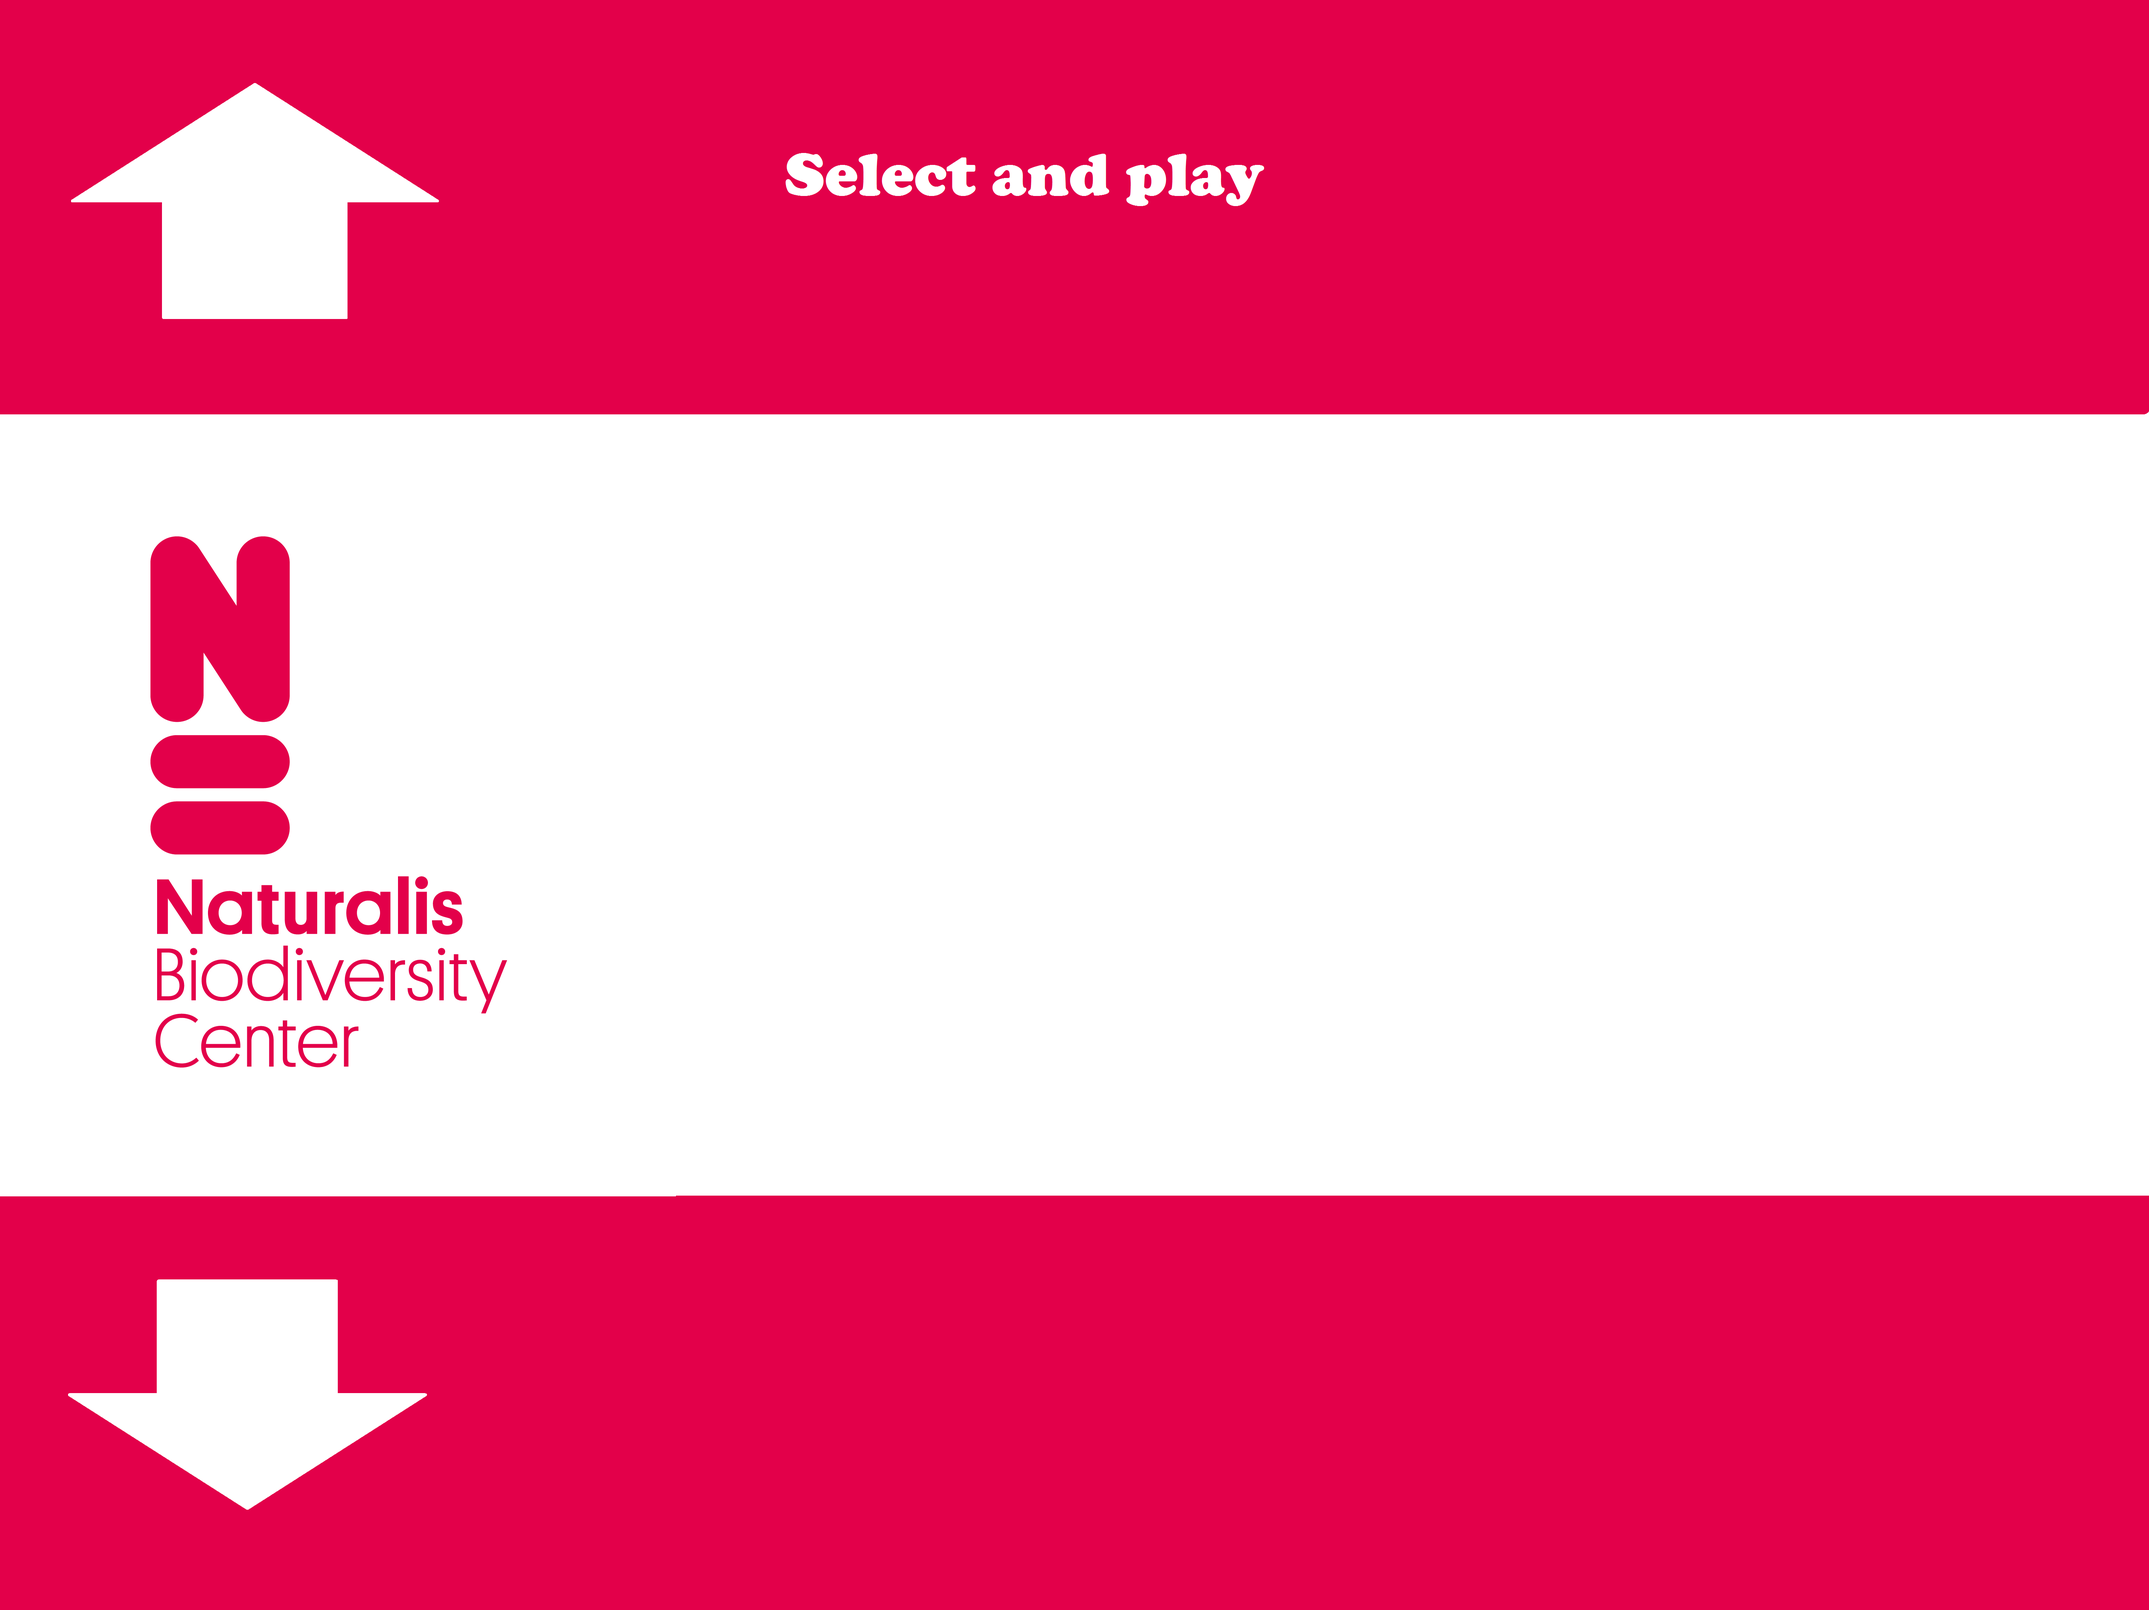
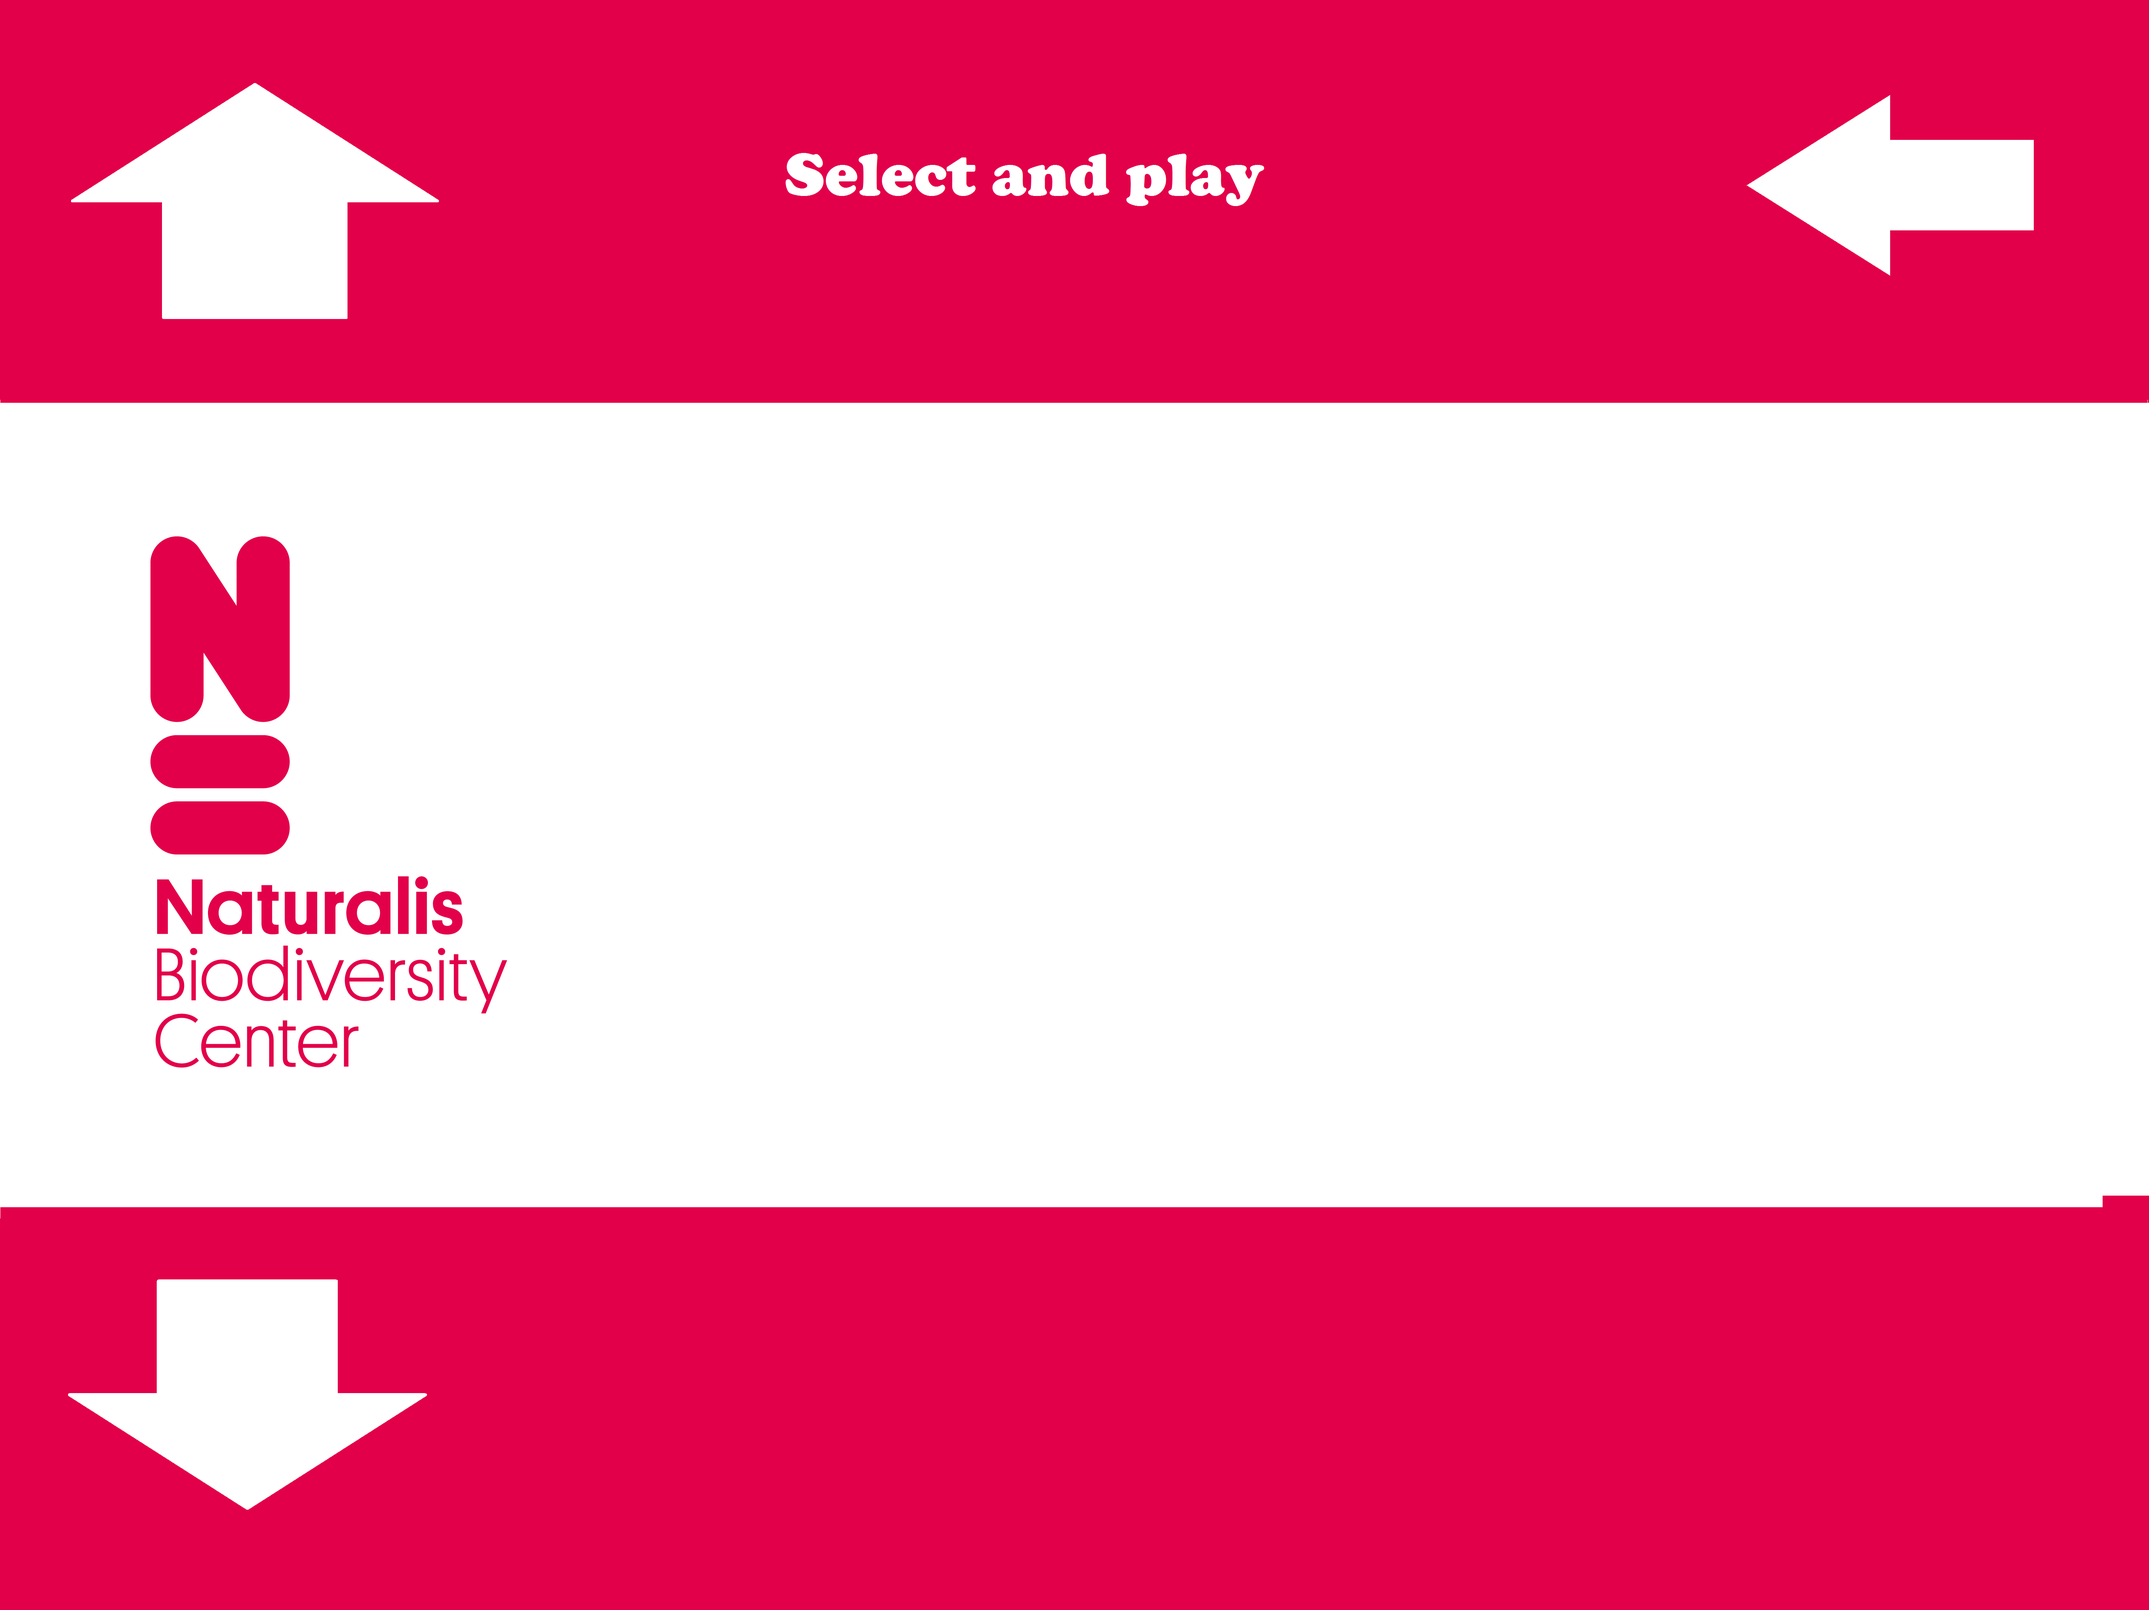
Achtergronden e.d.

Changed region(s): [[0.0, 0.249, 1.0, 0.2801], [0.0, 0.7159, 0.9659, 0.747], [0.8101, 0.0623, 0.9659, 0.1556]]

diff --git a/select_and_play.cpp b/select_and_play.cpp
@@ -40,7 +40,8 @@ QString Select_And_Play::ItoS(int number)
 QImage *Select_And_Play::getFullImage(int number){
     if(number >= 0 && number < ALL_IMAGES){
         QString str = QDir::currentPath();
-        str += "/../../../../Naturalis/";
+        // str += "/../../../../Naturalis/";
+        str += "/../Naturalis/";
         str += ItoS(number);
         str += ".png";
         QImage *image = new QImage(str);
@@ -62,6 +63,10 @@ void Select_And_Play::toScreen(Screen s){
             Difficulty_Screen *d = new Difficulty_Screen(clickedImage);
             d->init();
             widget->close();
+        } break;
+        case SC_PUZZLE: {
+            Puzzle *p = new Puzzle();
+            p->initNM(rand() % ALL_IMAGES, NULL);
         } break;
     }
 }
@@ -118,7 +123,7 @@ void Select_And_Play::onTableClicked(const QModelIndex &i)
                 SendInput(1, &ip, sizeof(INPUT));
             }
             else if(box.clickedButton() == p2){
-                toScreen(SC_DIFF);
+                toScreen(SC_PUZZLE);
             }
         }
     }
@@ -132,64 +137,39 @@ QStandardItemModel *Select_And_Play::createModel(){
     QCoreApplication::processEvents();
 
     QStandardItemModel *model = new QStandardItemModel(4,3);
-    QColor color(0,0,255,50);
-
-    QStandardItem *item1 = new QStandardItem();
-    QFont font1;
-    font1.setPixelSize(100);
-    item1->setFont(font1);
-    item1->setTextAlignment(Qt::AlignCenter);
-    item1->setData(QVariant(color), Qt::BackgroundRole);
-    item1->setText("/\\");
-    model->setItem(0, 0, item1);
-
-    QStandardItem *item2 = item1->clone();
-    item2->setText("\\/");
-    model->setItem(3, 0, item2);
-
-    QStandardItem *item3 = item1->clone();
-    item3->setText("<-");
-    model->setItem(0, 2, item3);
-
-    QStandardItem *item4 = item1->clone();
-    QFont font2;
-    font2.setPixelSize(50);
-    font2.setItalic(true);
-    item4->setFont(font2);
-    item4->setText("Puzzling Collections Select and Play");
-    model->setItem(0, 1, item4);
-
-    for(int i = imgBlock*4; i < (imgBlock*4)+4; i++){
-        QStandardItem *item5 = new QStandardItem();
-        QImage *image = getFullImage(i);
-        if(image != NULL){
-            *image = image->scaled(SCREEN_W/3, SCREEN_H/4);
-            item5->setData(QVariant(QPixmap::fromImage(*image)), Qt::DecorationRole);
-            item5->setData(QVariant(color), Qt::BackgroundRole);
-            item5->setSelectable(false);
-
-            if(i == imgBlock*4)
-                model->setItem(1, 1, item5);
-            else if(i == (imgBlock*4)+1)
-                model->setItem(1, 2, item5);
-            else if(i == (imgBlock*4)+2)
-                model->setItem(2, 1, item5);
-            else if(i == (imgBlock*4)+3)
-                model->setItem(2, 2, item5);
+    QString str = QDir::currentPath();
+    str += "/../Puzzling_Collections-master/BackgroundSelectAndPlay.png";
+    QImage *image = new QImage(str);
+    int h = image->height()/4;
+    int w = image->width()/3;
+    for (int row = 0; row < 4; ++row) {
+        for (int column = 0; column < 3; ++column) {
+            QStandardItem *item = new QStandardItem();
+            QImage part = image->copy(w*column, h*row, w, h);
+            part = part.scaled(SCREEN_W/3, SCREEN_H/4);
+            QBrush *brush = new QBrush(part);
+            item->setBackground(*brush);
+            item->setSelectable(false);
+            model->setItem(row, column, item);
         }
     }
 
-    for (int row = 0; row < 4; ++row) {
-        for (int column = 0; column < 3; ++column) {
-            QStandardItem *item;
-            if(model->item(row, column) == NULL){
-                item = new QStandardItem();
-                item->setData(QVariant(color), Qt::BackgroundRole);
-            }
-            else
-                item = model->item(row, column)->clone();
+    for(int i = imgBlock*4; i < (imgBlock*4)+4; i++){
+        QStandardItem *item = new QStandardItem();
+        QImage *image = getFullImage(i);
+        if(image != NULL){
+            *image = image->scaled(SCREEN_W/3, SCREEN_H/4);
+            item->setData(QVariant(QPixmap::fromImage(*image)), Qt::DecorationRole);
             item->setSelectable(false);
-            model->setItem(row, column, item);
+
+            if(i == imgBlock*4)
+                model->setItem(1, 1, item);
+            else if(i == (imgBlock*4)+1)
+                model->setItem(1, 2, item);
+            else if(i == (imgBlock*4)+2)
+                model->setItem(2, 1, item);
+            else if(i == (imgBlock*4)+3)
+                model->setItem(2, 2, item);
         }
     }
 
@@ -220,6 +200,9 @@ void Select_And_Play::init(){
     palette.setBrush(QPalette::HighlightedText,QBrush(Qt::black));
     table->setPalette(palette);
     table->setFocusPolicy(Qt::NoFocus);
+    table->setShowGrid(false);
+    table->setVerticalScrollBarPolicy(Qt::ScrollBarAlwaysOff);
+    table->setHorizontalScrollBarPolicy(Qt::ScrollBarAlwaysOff);
 
     this->connect(table, SIGNAL(clicked(QModelIndex)), SLOT(onTableClicked(QModelIndex)));
 

diff --git a/help_screen.cpp b/help_screen.cpp
@@ -79,68 +79,22 @@ void Help_Screen::onTableClicked(const QModelIndex &i)
 // Creates the help screen model to be used in the table.
 QStandardItemModel *Help_Screen::createModel(){
     QStandardItemModel *model = new QStandardItemModel(4,3);
-    QColor color(0,0,255,50);
-
-    QStandardItem *item1 = new QStandardItem();
-    QFont font1;
-    font1.setPixelSize(50);
-    item1->setFont(font1);
-    item1->setTextAlignment(Qt::AlignCenter);
-    item1->setData(QVariant(color), Qt::BackgroundRole);
-    item1->setText("Browse");
-    model->setItem(3, 0, item1);
-
-    QStandardItem *item2 = item1->clone();
-    item2->setText("Select and Play");
-    model->setItem(3, 1, item2);
-
-    QStandardItem *item3 = item1->clone();
-    item3->setText("Quick Puzzle");
-    model->setItem(3, 2, item3);
-
-    QStandardItem *item4 = item1->clone();
-    QFont font2;
-    font2.setPixelSize(100);
-    item4->setFont(font2);
-    item4->setText("<-");
-    model->setItem(0, 2, item4);
-
-    QStandardItem *item5 = item1->clone();
-    QFont font3;
-    font3.setPixelSize(50);
-    font3.setItalic(true);
-    item5->setFont(font3);
-    item5->setText("Puzzling Collections Help Screen");
-    model->setItem(0, 1, item5);
-
-    QStandardItem *item6 = item1->clone();
-    QFont font4;
-    font4.setPixelSize(20);
-    item6->setFont(font4);
-    item6->setText("\"Puzzling Collections\" is a program designed to give you a fun time puzzling with wonderful images from the Naturalis depositories.\n"
-                   "These images can be shown on the screen by browsing and clicking them. Also, you can also play a slide puzzle which is the main focus of the program.");
-    model->setItem(1, 1, item6);
-
-    QStandardItem *item7 = item6->clone();
-    item7->setText("By clicking browse you can browse through all available pictures.\n"
-                   "Clicking select and play will allow you to browse through the collection and start a puzzle.\n"
-                   "By selecting quick puzzle you will immediately start a puzzle with a random image.");
-    model->setItem(2, 1, item7);
-
+    QString str = QDir::currentPath();
+    str += "/../Puzzling_Collections-master/BackgroundHelp.png";
+    QImage *image = new QImage(str);
+    int h = image->height()/4;
+    int w = image->width()/3;
     for (int row = 0; row < 4; ++row) {
         for (int column = 0; column < 3; ++column) {
-            QStandardItem *item;
-            if(model->item(row, column) == NULL){
-                item = new QStandardItem();
-                item->setData(QVariant(color), Qt::BackgroundRole);
-            }
-            else
-                item = model->item(row, column)->clone();
+            QStandardItem *item = new QStandardItem();
+            QImage part = image->copy(w*column, h*row, w, h);
+            part = part.scaled(SCREEN_W/3, SCREEN_H/4);
+            QBrush *brush = new QBrush(part);
+            item->setBackground(*brush);
             item->setSelectable(false);
             model->setItem(row, column, item);
         }
     }
-
     return model;
 }
 
@@ -165,6 +119,9 @@ void Help_Screen::init(){
     palette.setBrush(QPalette::HighlightedText,QBrush(Qt::black));
     table->setPalette(palette);
     table->setFocusPolicy(Qt::NoFocus);
+    table->setShowGrid(false);
+    table->setVerticalScrollBarPolicy(Qt::ScrollBarAlwaysOff);
+    table->setHorizontalScrollBarPolicy(Qt::ScrollBarAlwaysOff);
 
     this->connect(table, SIGNAL(clicked(QModelIndex)), SLOT(onTableClicked(QModelIndex)));
 

diff --git a/main_menu.cpp b/main_menu.cpp
@@ -68,66 +68,31 @@ void Main_Menu::onTableClicked(const QModelIndex &i)
 {
     if(i.row() == 0 && i.column() == 2)
         toScreen(SC_HELP);
-    else if(i.row() == 2 && i.column() == 0){
-        toScreen(SC_BROWSE);
-    }
-    else if(i.row() == 2 && i.column() == 1)
+    else if(i.row() == 3 && i.column() == 0)
         toScreen(SC_SELECT);
-    else if(i.row() == 2 && i.column() == 2)
+    else if(i.row() == 3 && i.column() == 2)
         toScreen(SC_QUICK);
 }
 
 // Creates the main menu model to be used in the table.
 QStandardItemModel *Main_Menu::createModel(){
     QStandardItemModel *model = new QStandardItemModel(4,3);
-    QColor color(0,0,255,50);
-
-    QStandardItem *item1 = new QStandardItem();
-    QFont font1;
-    font1.setPixelSize(50);
-    item1->setFont(font1);
-    item1->setTextAlignment(Qt::AlignCenter);
-    item1->setData(QVariant(color), Qt::BackgroundRole);
-    item1->setText("Browse");
-    model->setItem(2, 0, item1);
-
-    QStandardItem *item2 = item1->clone();
-    item2->setText("Select and Play");
-    model->setItem(2, 1, item2);
-
-    QStandardItem *item3 = item1->clone();
-    item3->setText("Quick Puzzle");
-    model->setItem(2, 2, item3);
-
-    QStandardItem *item4 = item1->clone();
-    QFont font2;
-    font2.setPixelSize(100);
-    item4->setFont(font2);
-    item4->setText("?");
-    model->setItem(0, 2, item4);
-
-    QStandardItem *item5 = item1->clone();
-    QFont font3;
-    font3.setPixelSize(50);
-    font3.setItalic(true);
-    item5->setFont(font3);
-    item5->setText("Puzzling Collections Main Menu");
-    model->setItem(0, 1, item5);
-
+    QString str = QDir::currentPath();
+    str += "/../Puzzling_Collections-master/Background.png";
+    QImage *image = new QImage(str);
+    int h = image->height()/4;
+    int w = image->width()/3;
     for (int row = 0; row < 4; ++row) {
         for (int column = 0; column < 3; ++column) {
-            QStandardItem *item;
-            if(model->item(row, column) == NULL){
-                item = new QStandardItem();
-                item->setData(QVariant(color), Qt::BackgroundRole);
-            }
-            else
-                item = model->item(row, column)->clone();
+            QStandardItem *item = new QStandardItem();
+            QImage part = image->copy(w*column, h*row, w, h);
+            part = part.scaled(SCREEN_W/3, SCREEN_H/4);
+            QBrush *brush = new QBrush(part);
+            item->setBackground(*brush);
             item->setSelectable(false);
             model->setItem(row, column, item);
         }
     }
-
     return model;
 }
 
@@ -152,6 +117,9 @@ void Main_Menu::init(){
            palette.setBrush(QPalette::HighlightedText,QBrush(Qt::black));
            table->setPalette(palette);
            table->setFocusPolicy(Qt::NoFocus);
+           table->setShowGrid(false);
+           table->setVerticalScrollBarPolicy(Qt::ScrollBarAlwaysOff);
+           table->setHorizontalScrollBarPolicy(Qt::ScrollBarAlwaysOff);
 
            this->connect(table, SIGNAL(clicked(QModelIndex)), SLOT(onTableClicked(QModelIndex)));
 

diff --git a/difficulty_screen.cpp b/difficulty_screen.cpp
@@ -37,7 +37,8 @@ QString Difficulty_Screen::ItoS(int number)
 QImage *Difficulty_Screen::getFullImage(int number){
     if(number >= 0 && number < ALL_IMAGES){
         QString str = QDir::currentPath();
-        str += "/../../../../Naturalis/";
+        // str += "/../../../../Naturalis/";
+        str += "/../Naturalis/";
         str += ItoS(number);
         str += ".png";
         QImage *image = new QImage(str);

diff --git a/browse_screen.cpp b/browse_screen.cpp
@@ -38,7 +38,8 @@ QString Browse_Screen::ItoS(int number)
 QImage *Browse_Screen::getFullImage(int number){
     if(number >= 0 && number < ALL_IMAGES){
         QString str = QDir::currentPath();
-        str += "/../../../../Naturalis/";
+        // str += "/../../../../Naturalis/";
+        str += "/../Naturalis/";
         str += ItoS(number);
         str += ".png";
         QImage *image = new QImage(str);

diff --git a/puzzle.cpp b/puzzle.cpp
@@ -38,7 +38,8 @@ QString Puzzle::ItoS(int number)
 QImage *Puzzle::getFullImage(int number){
     if(number >= 0 && number < ALL_IMAGES){
         QString str = QDir::currentPath();
-        str += "/../../../../Naturalis/";
+        // str += "/../../../../Naturalis/";
+        str += "/../Naturalis/";
         str += ItoS(number);
         str += ".png";
         QImage *image = new QImage(str);

diff --git a/select_and_play.h b/select_and_play.h
@@ -23,6 +23,7 @@ protected:
     enum Screen {
         SC_MAIN,
         SC_DIFF,
+        SC_PUZZLE,
     };
     QTableView *table;
     QWidget *widget;
